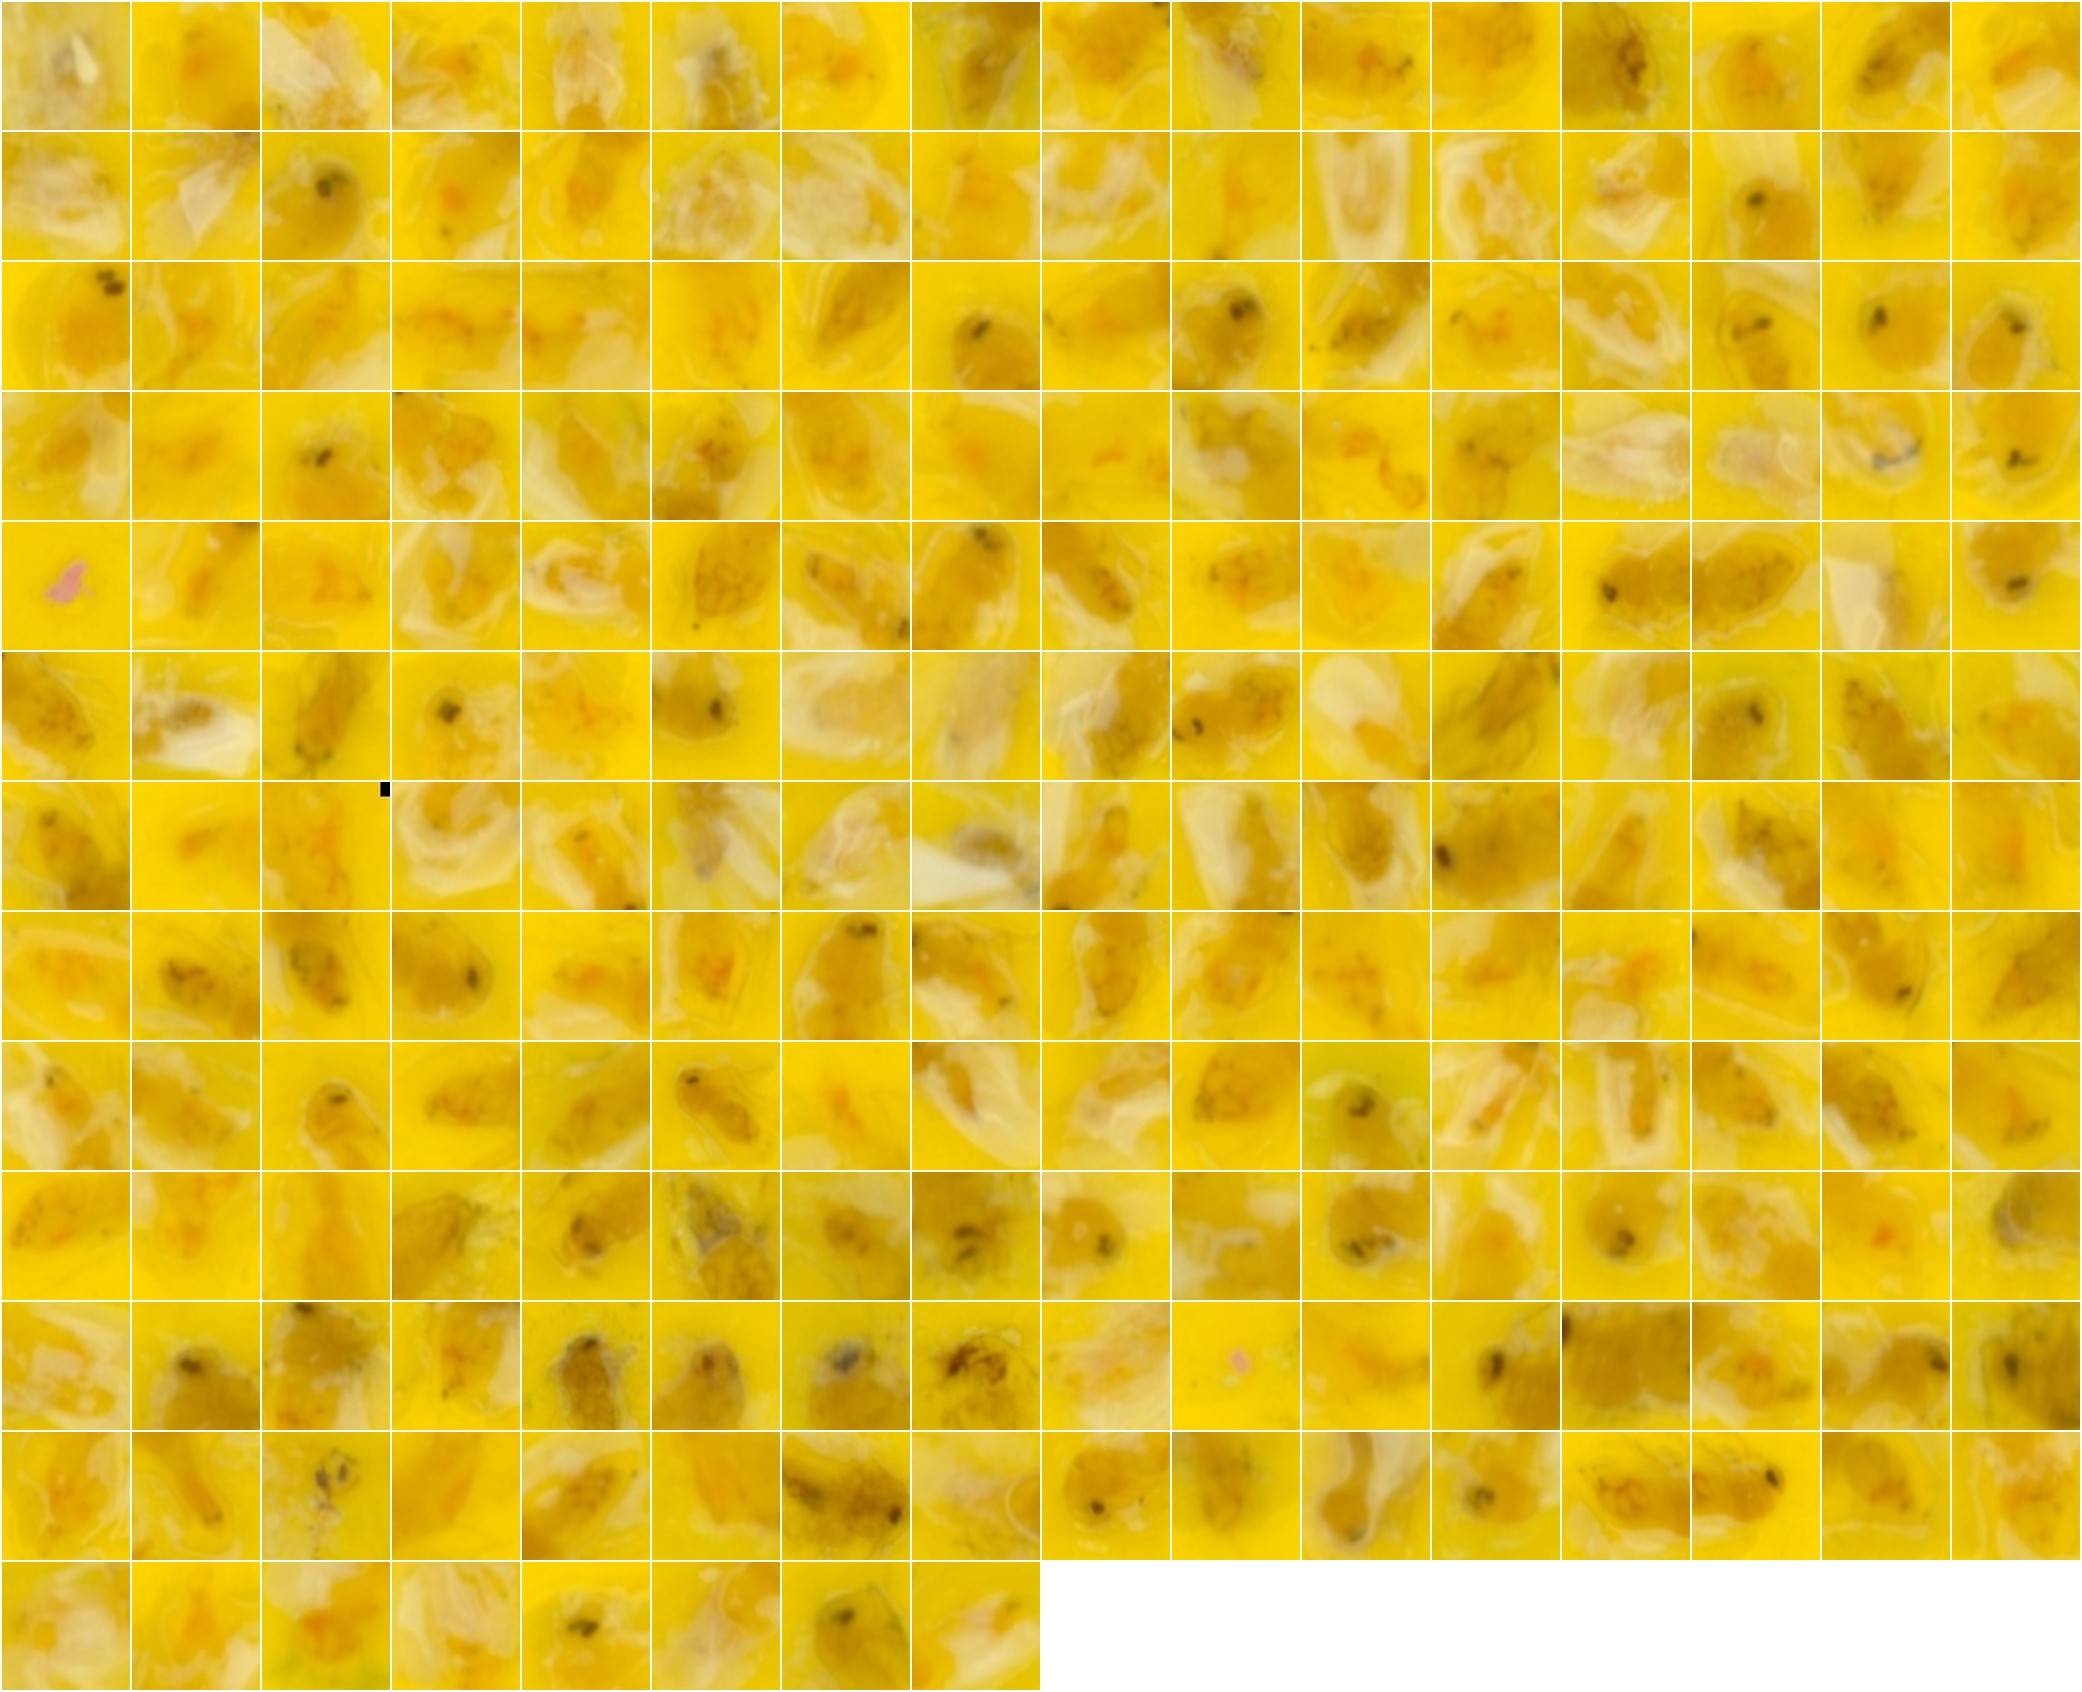
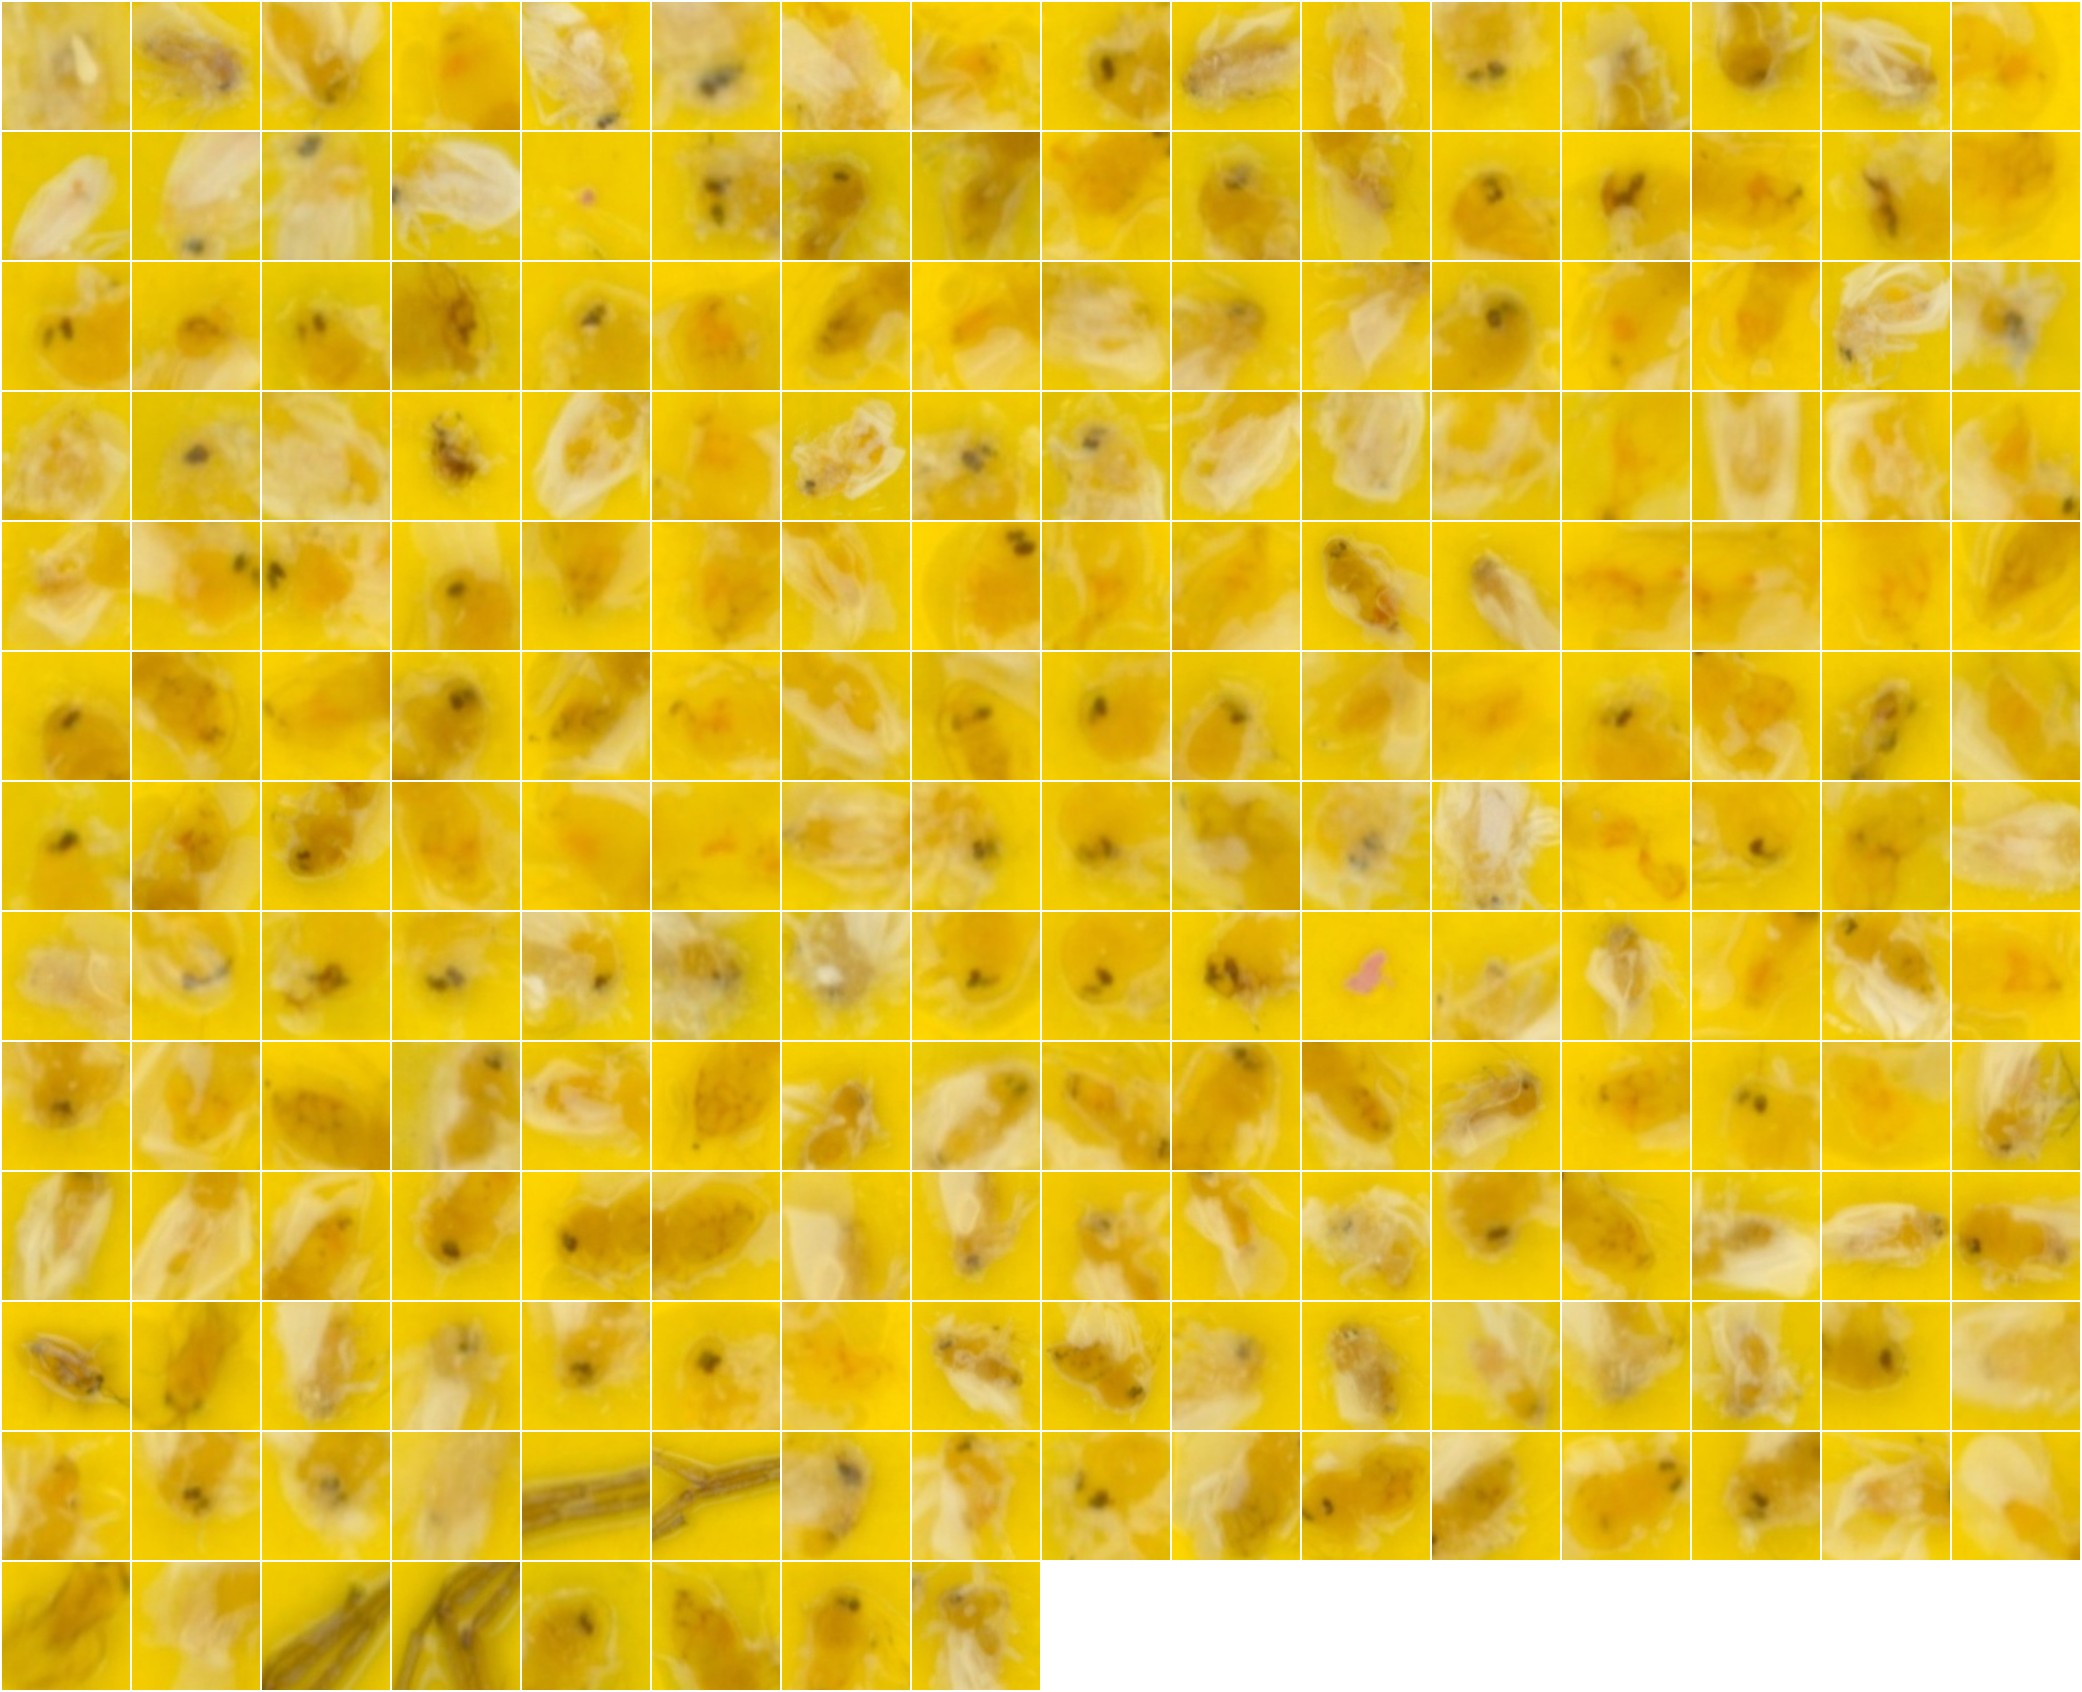
docs: merge sub_7 into sub_6, update montage gallery (18 sub-clusters)
- Merge final_result/sub_7 (338 imgs) into sub_6 → 575 imgs
- Regenerate sub_6 montage, remove sub_7.jpg
- Update sub-cluster gallery tables in both READMEs (18 sub-clusters, sub_7 merged)

diff --git a/README.en.md b/README.en.md
@@ -375,7 +375,7 @@ Results from one full inference run (DINOv2 backbone, `clusters_amount=8`, N=430
 
 ### Final sub-clustering results (final_result)
 
-The final sub-clusters produced by Stage 5. Each image is a tightly-packed montage of that sub-cluster's images (up to the first 200), for **19 sub-clusters** in total (sub_17 missing).
+The final sub-clusters produced by Stage 5. Each image is a tightly-packed montage of that sub-cluster's images (up to the first 200), for **18 sub-clusters** in total (sub_7 and sub_17 missing; the former sub_7 was merged into sub_6).
 
 | sub_0 | sub_1 |
 |:---:|:---:|
@@ -384,20 +384,18 @@ The final sub-clusters produced by Stage 5. Each image is a tightly-packed monta
 | ![sub_2](docs/images/sub_montages/sub_2.jpg) | ![sub_3](docs/images/sub_montages/sub_3.jpg) |
 | **sub_4** | **sub_5** |
 | ![sub_4](docs/images/sub_montages/sub_4.jpg) | ![sub_5](docs/images/sub_montages/sub_5.jpg) |
-| **sub_6** | **sub_7** |
-| ![sub_6](docs/images/sub_montages/sub_6.jpg) | ![sub_7](docs/images/sub_montages/sub_7.jpg) |
-| **sub_8** | **sub_9** |
-| ![sub_8](docs/images/sub_montages/sub_8.jpg) | ![sub_9](docs/images/sub_montages/sub_9.jpg) |
-| **sub_10** | **sub_11** |
-| ![sub_10](docs/images/sub_montages/sub_10.jpg) | ![sub_11](docs/images/sub_montages/sub_11.jpg) |
-| **sub_12** | **sub_13** |
-| ![sub_12](docs/images/sub_montages/sub_12.jpg) | ![sub_13](docs/images/sub_montages/sub_13.jpg) |
-| **sub_14** | **sub_15** |
-| ![sub_14](docs/images/sub_montages/sub_14.jpg) | ![sub_15](docs/images/sub_montages/sub_15.jpg) |
-| **sub_16** | **sub_18** |
-| ![sub_16](docs/images/sub_montages/sub_16.jpg) | ![sub_18](docs/images/sub_montages/sub_18.jpg) |
-| **sub_19** |  |
-| ![sub_19](docs/images/sub_montages/sub_19.jpg) |  |
+| **sub_6** (incl. former sub_7) | **sub_8** |
+| ![sub_6](docs/images/sub_montages/sub_6.jpg) | ![sub_8](docs/images/sub_montages/sub_8.jpg) |
+| **sub_9** | **sub_10** |
+| ![sub_9](docs/images/sub_montages/sub_9.jpg) | ![sub_10](docs/images/sub_montages/sub_10.jpg) |
+| **sub_11** | **sub_12** |
+| ![sub_11](docs/images/sub_montages/sub_11.jpg) | ![sub_12](docs/images/sub_montages/sub_12.jpg) |
+| **sub_13** | **sub_14** |
+| ![sub_13](docs/images/sub_montages/sub_13.jpg) | ![sub_14](docs/images/sub_montages/sub_14.jpg) |
+| **sub_15** | **sub_16** |
+| ![sub_15](docs/images/sub_montages/sub_15.jpg) | ![sub_16](docs/images/sub_montages/sub_16.jpg) |
+| **sub_18** | **sub_19** |
+| ![sub_18](docs/images/sub_montages/sub_18.jpg) | ![sub_19](docs/images/sub_montages/sub_19.jpg) |
 
 ---
 

diff --git a/README.md b/README.md
@@ -397,7 +397,7 @@ data/
 
 ### 子聚類最終結果（final_result）
 
-階段五對各群再細分後的最終子群，每張為該子群影像（最多前 200 張）的緊密拼貼預覽，共 **19 個子群**（缺 sub_17）。
+階段五對各群再細分後的最終子群，每張為該子群影像（最多前 200 張）的緊密拼貼預覽，共 **18 個子群**（缺 sub_7、sub_17；原 sub_7 已併入 sub_6）。
 
 | sub_0 | sub_1 |
 |:---:|:---:|
@@ -406,20 +406,18 @@ data/
 | ![sub_2](docs/images/sub_montages/sub_2.jpg) | ![sub_3](docs/images/sub_montages/sub_3.jpg) |
 | **sub_4** | **sub_5** |
 | ![sub_4](docs/images/sub_montages/sub_4.jpg) | ![sub_5](docs/images/sub_montages/sub_5.jpg) |
-| **sub_6** | **sub_7** |
-| ![sub_6](docs/images/sub_montages/sub_6.jpg) | ![sub_7](docs/images/sub_montages/sub_7.jpg) |
-| **sub_8** | **sub_9** |
-| ![sub_8](docs/images/sub_montages/sub_8.jpg) | ![sub_9](docs/images/sub_montages/sub_9.jpg) |
-| **sub_10** | **sub_11** |
-| ![sub_10](docs/images/sub_montages/sub_10.jpg) | ![sub_11](docs/images/sub_montages/sub_11.jpg) |
-| **sub_12** | **sub_13** |
-| ![sub_12](docs/images/sub_montages/sub_12.jpg) | ![sub_13](docs/images/sub_montages/sub_13.jpg) |
-| **sub_14** | **sub_15** |
-| ![sub_14](docs/images/sub_montages/sub_14.jpg) | ![sub_15](docs/images/sub_montages/sub_15.jpg) |
-| **sub_16** | **sub_18** |
-| ![sub_16](docs/images/sub_montages/sub_16.jpg) | ![sub_18](docs/images/sub_montages/sub_18.jpg) |
-| **sub_19** |  |
-| ![sub_19](docs/images/sub_montages/sub_19.jpg) |  |
+| **sub_6**（含原 sub_7） | **sub_8** |
+| ![sub_6](docs/images/sub_montages/sub_6.jpg) | ![sub_8](docs/images/sub_montages/sub_8.jpg) |
+| **sub_9** | **sub_10** |
+| ![sub_9](docs/images/sub_montages/sub_9.jpg) | ![sub_10](docs/images/sub_montages/sub_10.jpg) |
+| **sub_11** | **sub_12** |
+| ![sub_11](docs/images/sub_montages/sub_11.jpg) | ![sub_12](docs/images/sub_montages/sub_12.jpg) |
+| **sub_13** | **sub_14** |
+| ![sub_13](docs/images/sub_montages/sub_13.jpg) | ![sub_14](docs/images/sub_montages/sub_14.jpg) |
+| **sub_15** | **sub_16** |
+| ![sub_15](docs/images/sub_montages/sub_15.jpg) | ![sub_16](docs/images/sub_montages/sub_16.jpg) |
+| **sub_18** | **sub_19** |
+| ![sub_18](docs/images/sub_montages/sub_18.jpg) | ![sub_19](docs/images/sub_montages/sub_19.jpg) |
 
 ---
 